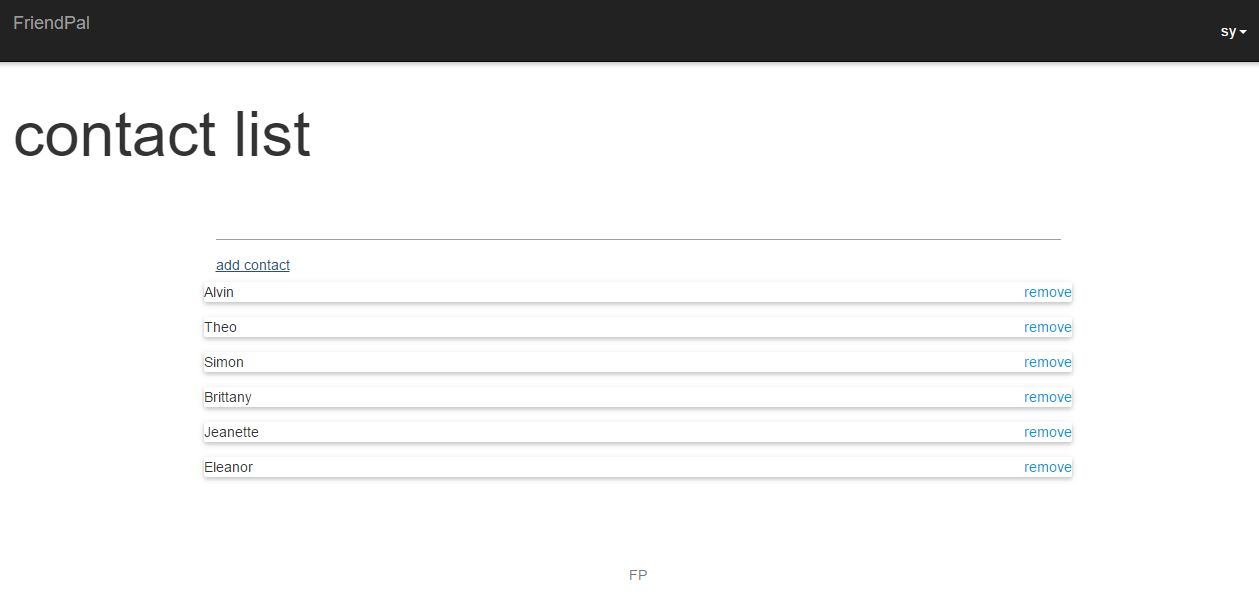
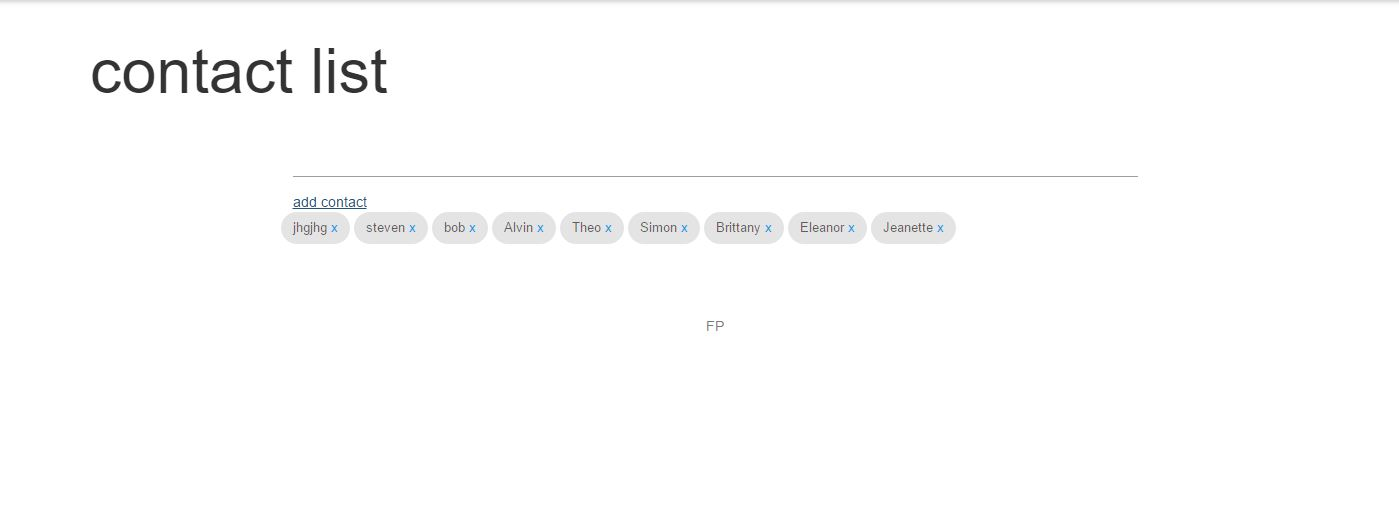
new pictures

diff --git a/app/client/templates/FPmock/settings.html b/app/client/templates/FPmock/settings.html
@@ -2,14 +2,20 @@
   <h1>Profile and settings</h1>
   <div class="container">
     <div class="row">
-      <div class="card">
-        user picture <br>
-        user bio <br>
+      <div class="card col s6">
+        <img style="height:100px;" src="http://icons.iconarchive.com/icons/custom-icon-design/silky-line-user/256/user-2-icon.png"> <br>
+        <p>Sample user bio data</p><br>
         <a>edit</a>
+      </div>
+      <div class="card col s6">
+        statistics<br>
+        sent: 30<br>
+        received: 47<br>
+        contacts: 9<br>
       </div>
     </div>
     <div class="row">
-      <div class="card col s6">
+      <div class="card">
         interests<br>
         {{#each interestList}}
         <div class="chip">
@@ -39,12 +45,7 @@
         <label for="Food">Food</label><br>
 
       </div>
-      <div class="card col s6">
-        statistics<br>
-        sent: <br>
-        received: <br>
-        contacts: <br>
-      </div>
+
 
     </div>
   </div>

diff --git a/app/lib/collections/Accounts.js b/app/lib/collections/Accounts.js
@@ -35,7 +35,7 @@
 
 if (Meteor.isServer) {
   Meteor.publish("userData", function () {
-    return Meteor.users.find({},{fields: {'username': 1, 'contacts': 1, 'interests': 1}});
+    return Meteor.users.find({},{fields: {'username': 1, 'contacts': 1, 'interests': 1, 'userBio': 1, 'userPicture': 1}});
   });
 }
 if(Meteor.isClient){

diff --git a/README.md b/README.md
@@ -5,6 +5,12 @@ FriendPal is a communication application that allows students who do not speak t
 through letters and short messages by incorporating a translator feature. FriendPal uses University of Hawaii CAS system
 for now as a test, but can be easily modified to expand to larger demographics.
 
+##Changes
+4/14:
+Implemented user interests.
+Combined user settings and profile.
+Added collections for user profiles. (still need forms to add data)
+Contact list now a list of close-able chips.
 
 ## Features
 functional:
